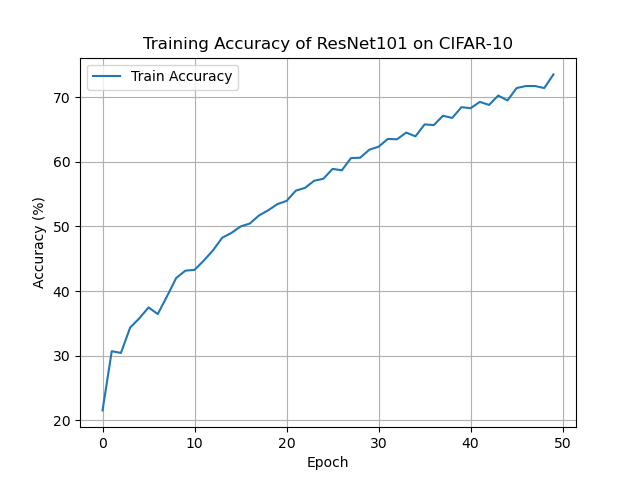
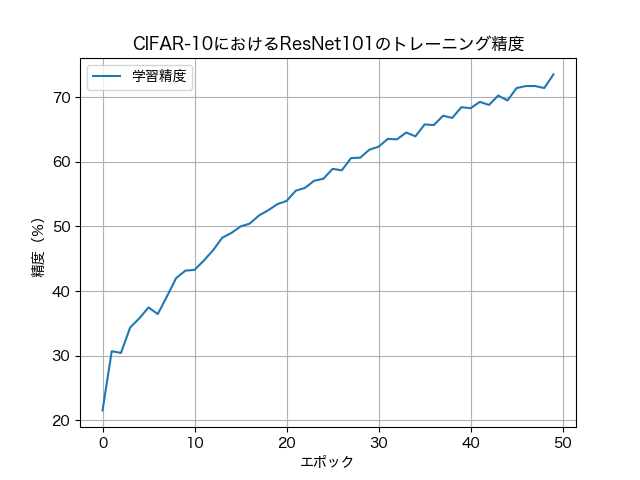
Japanese graph generation

diff --git a/analyse_data_jp.py b/analyse_data_jp.py
@@ -1,0 +1,26 @@
+import pandas as pd
+import matplotlib.pyplot as plt
+
+# https://www.danyelkoca.com/en/blog/matplotlib
+### CHANGE THE FONT FROM DEFAULT TO HIRAGINO SANS
+plt.rcParams['font.family'] = "Hiragino Sans"
+
+train = pd.read_csv("train.out")
+test = pd.read_csv("test.out")
+num_epochs = 50
+
+print(f"Total training time: {train['iter_time'].sum() / 1e3 / 60 / 60} hours")
+print(f"Avg. test accuracy: {test['accuracy'].mean() * 100:.2f}%")
+
+average_accuracy = list()
+for epoch in range(num_epochs):
+    average_accuracy.append(train[train['epoch'] == epoch]['accuracy'].mean() * 100)
+
+plt.plot(list(range(num_epochs)),  average_accuracy, label='学習精度')
+plt.xlabel("エポック")
+plt.ylabel("精度（％）")
+plt.title("CIFAR-10におけるResNet101のトレーニング精度")
+plt.grid(which="both")
+plt.legend()
+plt.savefig("train_accuracy.png")
+plt.show()
